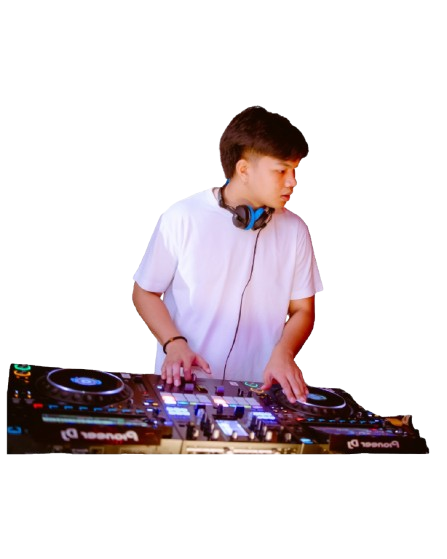
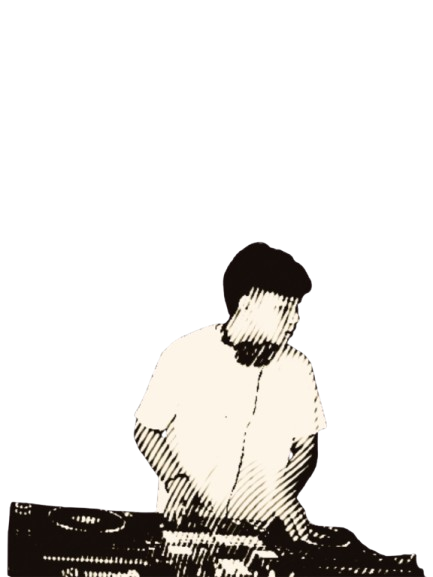
Rework lineup section: layered back/photo images, mobile swipe carousel
- Replace single poster images with a background photo (back_<name>.jpg,
  object-cover) layered under a cutout DJ photo (dj_<name>.png,
  object-contain) per artist.
- Drop the amber corner brackets, dark gradient tint, and "DJ NAME" hover
  label.
- Hover: DJ cutout scales up anchored from the bottom so it stays flush
  with the card bottom and grows upward without clipping the head.
- Mobile: track the centered card while swiping via IntersectionObserver
  and scale/brighten it relative to its neighbors, mirroring the desktop
  hover-expand behavior.
- Add AJ/ARTY/KENYA photo assets; 4th (TBA) slot reuses AJ's images as a
  placeholder until that DJ's photo is available.

diff --git a/src/components/marketing/lineup-section.tsx b/src/components/marketing/lineup-section.tsx
@@ -1,17 +1,64 @@
 "use client";
 
-import { useState } from "react";
+import { useEffect, useRef, useState } from "react";
 import Image from "next/image";
 
 const LINEUP = [
-  { name: "AJ", image: "/images/dj_aj.png" },
-  { name: "ARTY", image: "/images/dj_arty.png" },
-  { name: "KENYA", image: "/images/dj_kenya.png" },
-  { name: "TBA", image: "/images/dj_1.png" },
+  { name: "AJ", back: "/images/back_AJ.jpg", photo: "/images/dj_aj.png" },
+  { name: "ARTY", back: "/images/back_R-TY.jpg", photo: "/images/dj_R-TY.png" },
+  { name: "KENYA", back: "/images/back_KENYA.jpg", photo: "/images/dj_kenya.png" },
+  { name: "TBA", back: "/images/back_AJ.jpg", photo: "/images/dj_aj.png" },
 ];
 
 export function LineupSection() {
   const [hovered, setHovered] = useState<number | null>(null);
+  const [activeMobile, setActiveMobile] = useState(0);
+  const containerRef = useRef<HTMLDivElement | null>(null);
+  const cardRefs = useRef<(HTMLDivElement | null)[]>([]);
+
+  useEffect(() => {
+    const container = containerRef.current;
+    if (!container) return;
+
+    const mql = window.matchMedia("(max-width: 639px)");
+    const ratios = new Map<number, number>();
+    let observer: IntersectionObserver | null = null;
+
+    function setup() {
+      observer?.disconnect();
+      ratios.clear();
+      if (!mql.matches) return;
+
+      observer = new IntersectionObserver(
+        (entries) => {
+          entries.forEach((entry) => {
+            const index = cardRefs.current.findIndex((el) => el === entry.target);
+            if (index !== -1) ratios.set(index, entry.intersectionRatio);
+          });
+
+          let bestIndex = 0;
+          let bestRatio = -1;
+          ratios.forEach((ratio, index) => {
+            if (ratio > bestRatio) {
+              bestRatio = ratio;
+              bestIndex = index;
+            }
+          });
+          setActiveMobile(bestIndex);
+        },
+        { root: container, threshold: [0, 0.25, 0.5, 0.75, 1] }
+      );
+
+      cardRefs.current.forEach((el) => el && observer!.observe(el));
+    }
+
+    setup();
+    mql.addEventListener("change", setup);
+    return () => {
+      observer?.disconnect();
+      mql.removeEventListener("change", setup);
+    };
+  }, []);
 
   return (
     <section id="lineup" className="snap-section flex min-h-[calc(100svh-4rem)] flex-col border-t border-white/10 py-10 sm:min-h-[calc(100vh-4rem)] sm:py-16">
@@ -19,36 +66,41 @@ export function LineupSection() {
         <h2 className="font-heading text-3xl font-bold text-white sm:text-5xl">Lineup</h2>
       </div>
 
-      <div className="mt-6 flex flex-1 snap-x snap-mandatory gap-3 overflow-x-auto px-4 pb-2 sm:mt-10 sm:snap-none sm:flex-row sm:gap-0 sm:divide-x sm:divide-white/10 sm:overflow-visible sm:px-0 sm:pb-0">
+      <div
+        ref={containerRef}
+        className="mt-6 flex flex-1 snap-x snap-mandatory gap-3 overflow-x-auto px-4 pb-2 sm:mt-10 sm:snap-none sm:flex-row sm:gap-0 sm:divide-x sm:divide-white/10 sm:overflow-visible sm:px-0 sm:pb-0"
+      >
         {LINEUP.map((artist, i) => {
           const state = hovered === null ? "neutral" : hovered === i ? "hovered" : "shrunk";
 
           return (
             <div
               key={artist.name}
+              ref={(el) => {
+                cardRefs.current[i] = el;
+              }}
               data-state={state}
+              data-active={activeMobile === i}
               onMouseEnter={() => setHovered(i)}
               onMouseLeave={() => setHovered(null)}
-              className="group relative h-[52vh] w-[78vw] max-w-xs shrink-0 snap-center overflow-hidden rounded-lg border border-white/10 bg-black/70 transition-[width] duration-500 ease-out sm:h-auto sm:max-w-none sm:shrink sm:flex-none sm:rounded-none sm:border-0 sm:data-[state=hovered]:w-[34%] sm:data-[state=neutral]:w-1/4 sm:data-[state=shrunk]:w-[22%]"
+              className="group relative h-[52vh] w-[78vw] max-w-xs shrink-0 snap-center overflow-hidden rounded-lg border border-white/10 scale-90 opacity-60 transition-[width,transform,opacity] duration-500 ease-out data-[active=true]:scale-100 data-[active=true]:opacity-100 sm:h-auto sm:max-w-none sm:shrink sm:flex-none sm:rounded-none sm:border-0 sm:scale-100 sm:opacity-100 sm:data-[state=hovered]:w-[34%] sm:data-[state=neutral]:w-1/4 sm:data-[state=shrunk]:w-[22%]"
             >
-              <span className="pointer-events-none absolute left-4 top-4 z-10 h-5 w-5 border-l border-t border-amber-400/40" />
-              <span className="pointer-events-none absolute right-4 top-4 z-10 h-5 w-5 border-r border-t border-amber-400/40" />
+              <Image
+                src={artist.back}
+                alt=""
+                fill
+                sizes="(min-width: 640px) 50vw, 80vw"
+                className="object-cover object-[center_25%]"
+              />
 
               <Image
-                src={artist.image}
+                src={artist.photo}
                 alt={artist.name}
                 fill
                 sizes="(min-width: 640px) 50vw, 80vw"
-                className="object-contain object-bottom scale-95 transition-transform duration-500 ease-out group-hover:scale-125"
+                className="object-contain object-bottom origin-bottom transition-transform duration-500 ease-out group-hover:scale-125"
               />
 
-              <div className="absolute inset-0 bg-gradient-to-t from-black/70 via-transparent to-transparent" />
-
-              <div className="pointer-events-none absolute inset-0 flex items-center justify-center overflow-hidden px-3">
-                <span className="text-center font-heading text-3xl font-bold uppercase leading-none tracking-tight text-orange-500 opacity-70 transition-opacity duration-500 group-hover:opacity-70 sm:text-5xl sm:opacity-0 sm:group-hover:opacity-70 md:text-6xl">
-                  DJ {artist.name}
-                </span>
-              </div>
             </div>
           );
         })}
